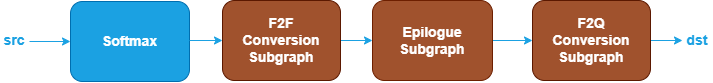
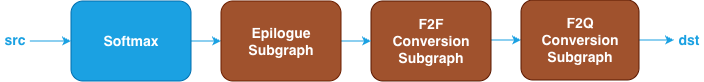
doc: graph: fusion: correct softmax fusion pattern document

Changed region(s): [[0.0, 0.0, 1.0, 1.0], [0.7812, 0.6098, 0.875, 0.8049], [0.7812, 0.1951, 0.875, 0.3415]]

diff --git a/doc/graph/fusion_patterns/softmax_fusion_patterns.md b/doc/graph/fusion_patterns/softmax_fusion_patterns.md
@@ -18,38 +18,37 @@ brown nodes are optional.
 1. **SoftMax Operation**: Performs the softmax function for the `src` tensor. See
    the [SoftMax](@ref dev_guide_op_softmax) operation in the Graph API for more
    details.
-2. **F2F Conversion Subgraph**: Converts the output tensor from floating-point to
-   another floating-point. It is constructed by a [TypeCast](@ref dev_guide_op_typecast)
-   operation.
-
-   ![f2f_conversion_subgraph](images/f2f_conversion.png)
-
-3. **Epilogue Subgraph**: Optional and can include the following operations:
+2. **Epilogue Subgraph**: Optional and can include the following operations:
    - Binary and Unary operations: refer to the Note in
      [Fusion Patterns](graph_fusion_patterns.html).
-
-   Combination Rules:
 
    ![epilogue subgraph](images/epilogue_subgraph_general_1.png)
 
    - N=20, 0 to 20 Binary or Unary operations are supported in the epilogue
      subgraph.
+3. **F2F Conversion Subgraph**: Converts the output tensor from floating-point
+   to another floating-point. It is constructed by a [TypeCast](@ref dev_guide_op_typecast)
+   operation.
 
-4. **F2Q Conversion Subgraph**: Converts the output
-   tensor from floating-point to quantized data type. It can be one of
-   the following subgraphs. See [TypeCast](@ref dev_guide_op_typecast)
-   and [Quantize](@ref dev_guide_op_quantize) operations in Graph API.
+   ![f2f_conversion_subgraph](images/f2f_conversion.png)
 
-   ![f2q_conversion_subgraph](images/f2q_conversion_softmax.png)
+4. **F2Q Conversion Subgraph**: Converts the output tensor from floating-point
+   to quantized data type. It is constructed by a [Quantize](@ref dev_guide_op_quantize)
+   operations in Graph API.
 
+   ![f2q_conversion_subgraph](images/f2q_conversion_general.png)
+
+5. If multiple optional subgraphs are present, they must follow the order
+   defined in the pattern structure.
 
 ## Data Types
 
-oneDNN supports the following combinations of data types for src and dst:
+Refer to the document of each operation for the supported data types.
 
-| src           | dst             |
-| :------------ | :----------------- |
-| bf16,f16,f32  | u8,s8,bf16,f16,f32 |
+If any optional subgraph is present, the output data type of `SoftMax` must be
+`f32`. With that, the F2F conversion subgraph converts the output from `f32` to
+`f16` or `bf16` and the F2Q conversion sugraph quantizes the output from `f32`
+to `int8`.
 
 The definition of data types and their support status on different CPU and GPU
 platforms follow the general description in the [Data Types Guide](@ref dev_guide_data_types).

diff --git a/doc/graph/operations/Softmax.md b/doc/graph/operations/Softmax.md
@@ -52,5 +52,5 @@ SoftMax operation supports the following data type combinations.
 | Src  | Dst             | Stats |
 |:-----|:----------------|:------|
 | f32  | f32, bf16, f16  | f32   |
-| bf16 | bf16            | f32   |
-| f16  | f16             | f32   |
+| bf16 | f32, bf16       | f32   |
+| f16  | f32, f16        | f32   |
